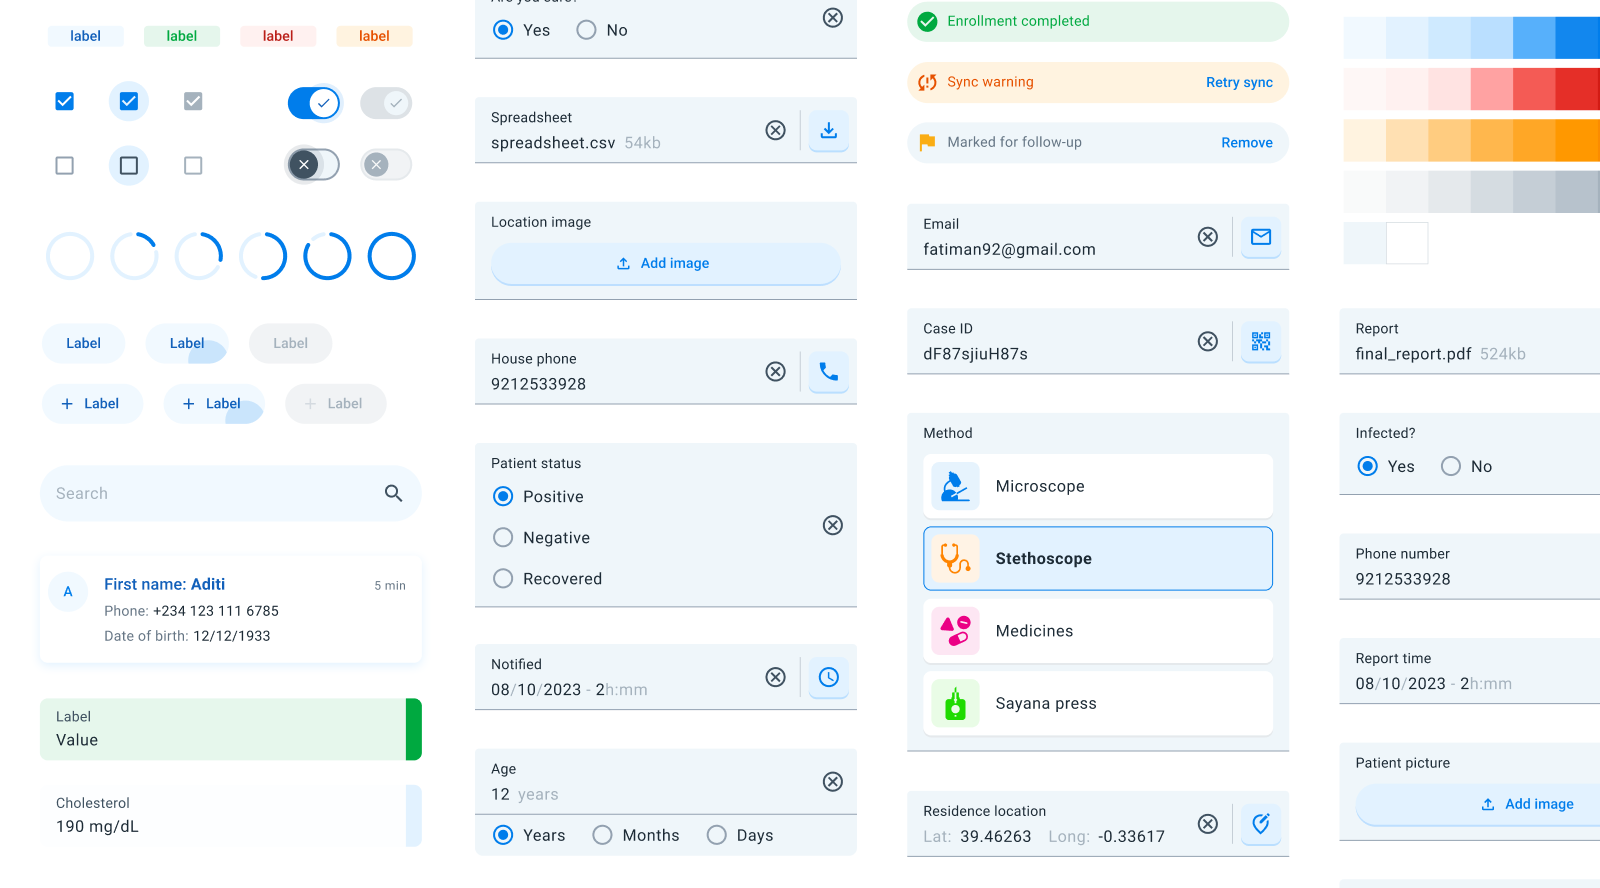
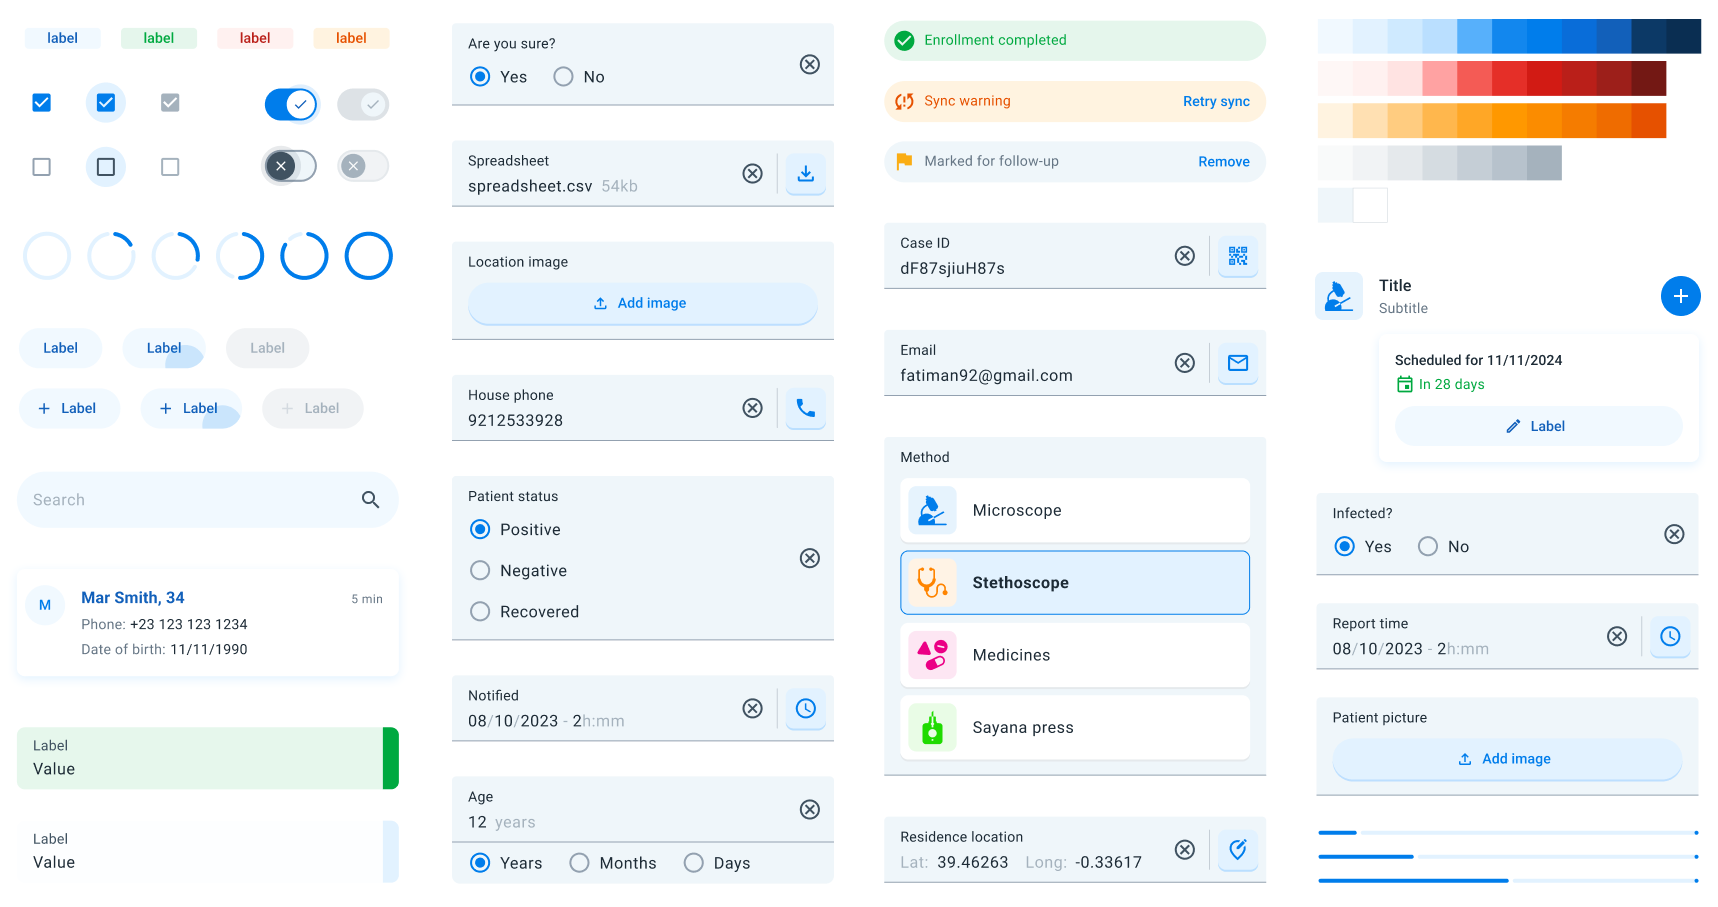
Improve design system image and remove WIP components (#308)

diff --git a/docs/design-system.md b/docs/design-system.md
@@ -31,22 +31,20 @@ The design system encompasses a wide array of elements that contribute to a cohe
 9. **Buttons**: Interactive elements that trigger actions, available in various styles like text, outlined, and contained buttons.
 10. **Checkboxes**: Controls that allow users to select one or multiple options from a list, indicating selection with a checkmark.
 11. **Chips**: Compact elements representing inputs, attributes, or actions, often used for filters or selections.
-12. **Filter Bar** (WIP): A component that enables users to refine content displayed on the screen based on specific criteria.
-13. **Forms**: Structured layouts for data entry, including input fields, dropdowns, and validation messages. They allow easily capture data for all the data entry types in the DHIS2 world.
-14. **Indicators**: Used to provide specific information like feedback or program indicators.
-15. **Info Bar**: A horizontal component that displays brief messages, alerts, or notifications to the user.
-16. **Navigation Bar**: A bar located at the bottom of the screen for primary navigation between app sections.
-17. **Progress Indicators**: Linear and circular indicators that show the progress of a task or process.
-18. **Radio Buttons**: Controls that allow users to select a single option from a set, displaying the selection with a filled circle.
-19. **Lists**: Organized collections of items, and cards to display text, images, or interactive elements, ready for DHIS2 objects.
-20. **Menu**: A list of options or actions presented contextually or via a dedicated button, often used for secondary navigation.
-21. **Search Bar**: An input field where users can enter queries to search and filter content within the app.
-22. **Section Title (WIP)**: Headers that introduce and label different sections or groupings of content for better organization.
-23. **Sections**: Divisions within a page or screen that group related content or functionality together.
-24. **Snackbar**: Temporary messages that appear at the bottom of the screen to provide brief feedback about an operation.
-25. **Switches**: Toggles that allow users to turn options or settings on or off, indicating the current state immediately.
-26. **Tags**: Labels used to categorize, organize, or filter content, displayed as small, rounded rectangles.
-27. **Top Bar**: The header area at the top of the screen, usually containing the app title, navigation controls, and action items.
+12. **Forms**: Structured layouts for data entry, including input fields, dropdowns, and validation messages. They allow easily capture data for all the data entry types in the DHIS2 world.
+13. **Indicators**: Used to provide specific information like feedback or program indicators.
+14. **Info Bar**: A horizontal component that displays brief messages, alerts, or notifications to the user.
+15. **Navigation Bar**: A bar located at the bottom of the screen for primary navigation between app sections.
+16. **Progress Indicators**: Linear and circular indicators that show the progress of a task or process.
+17. **Radio Buttons**: Controls that allow users to select a single option from a set, displaying the selection with a filled circle.
+18. **Lists**: Organized collections of items, and cards to display text, images, or interactive elements, ready for DHIS2 objects.
+19. **Menu**: A list of options or actions presented contextually or via a dedicated button, often used for secondary navigation.
+20. **Search Bar**: An input field where users can enter queries to search and filter content within the app.
+21. **Sections**: Divisions within a page or screen that group related content or functionality together.
+22. **Snackbar**: Temporary messages that appear at the bottom of the screen to provide brief feedback about an operation.
+23. **Switches**: Toggles that allow users to turn options or settings on or off, indicating the current state immediately.
+24. **Tags**: Labels used to categorize, organize, or filter content, displayed as small, rounded rectangles.
+25. **Top Bar**: The header area at the top of the screen, usually containing the app title, navigation controls, and action items.
 
 ---
 

diff --git a/docs/demo.md b/docs/demo.md
@@ -14,8 +14,6 @@ The Mobile UI library includes a **demo application** that showcases all the com
 
 Each release of the Mobile UI library provides artifacts for various targets, including Android and desktop platforms. You can download the demo application from the **Assets** section at the bottom of each [release page](https://github.com/dhis2/dhis2-mobile-ui/releases) on GitHub.
 
-![](resources/assets.png)
-
 ### Steps to Download:
 
 1. **Visit the Releases Page**: Go to the [Mobile UI releases page](https://github.com/dhis2/dhis2-mobile-ui/releases) on GitHub.
@@ -24,6 +22,8 @@ Each release of the Mobile UI library provides artifacts for various targets, in
 4. **Download the Artifact**: Click on the appropriate file for your platform:
     - **Android**: Download the `Android.APK.zip` file.
     - **Desktop (Windows)**: Download the `Desktop.jar.-.Windows.zip` file.
+
+![](resources/assets.png)
 
 ## Installing the Demo Application
 
